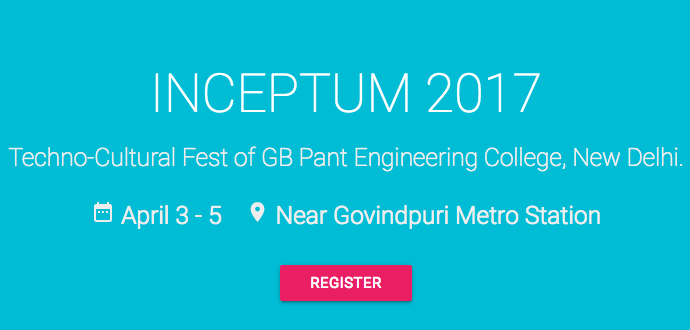
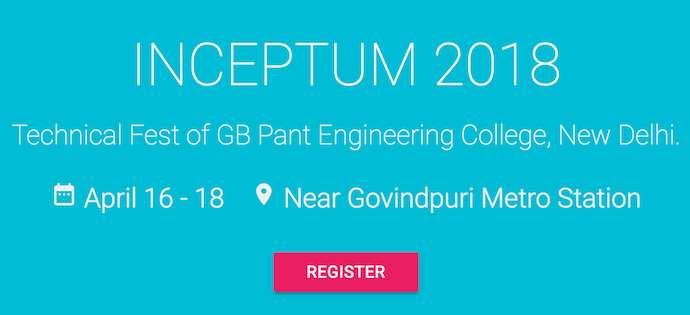
update readme and meta img

diff --git a/README.md b/README.md
@@ -1,4 +1,4 @@
-# Inceptum 2017
+# Inceptum 2018
 
 <b>INCEPTUM</b> is the Techno-Cultural Festival of G.B.Pant Engineering College, Delhi. The aim of INCEPTUM has always been, to foster scientific temperament among students through different means and to cater to all kinds of talent.
 
